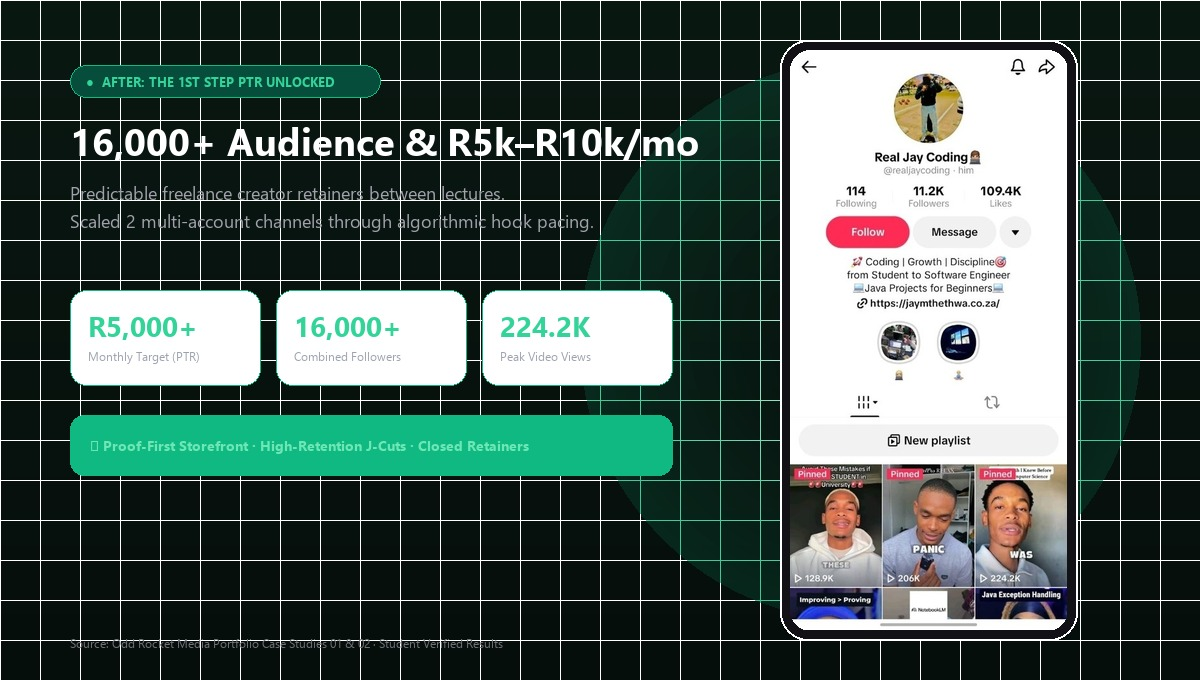
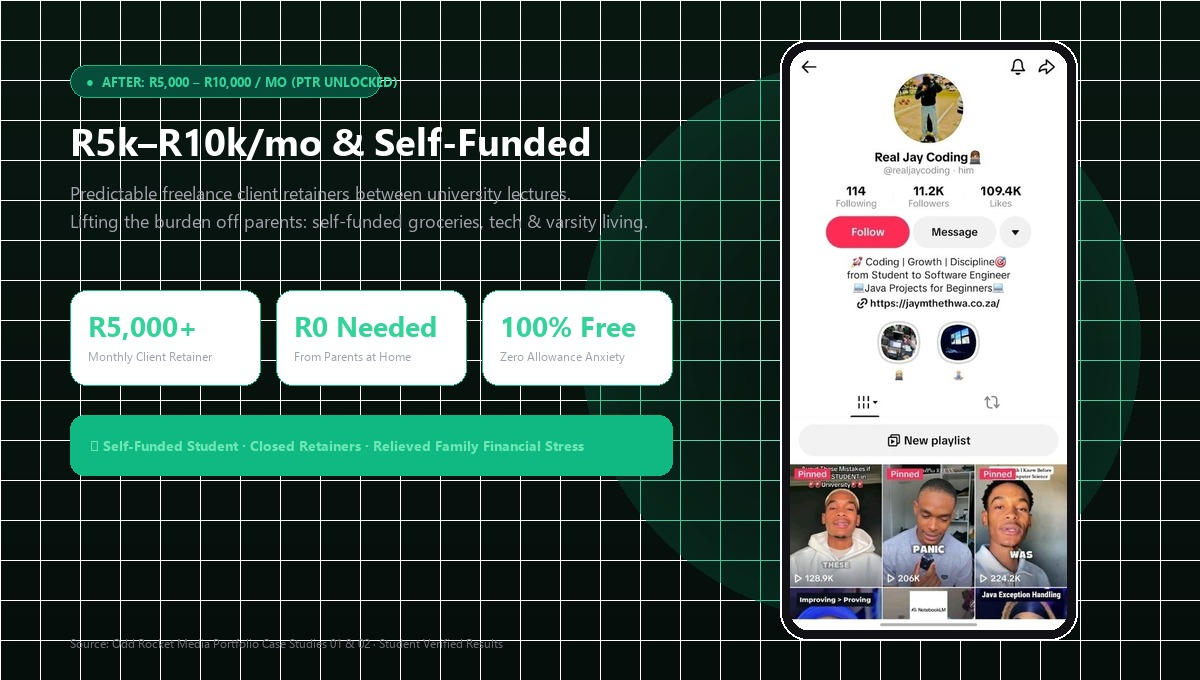
refactor(wins): focus Before/After comparison purely on monetary cashflow, alleviating parent stress, and student independence

diff --git a/index.html b/index.html
@@ -565,23 +565,23 @@
                 REACTBITS PRO COMPARISON SLIDER
               </div>
               <h3 class="comparison-slider-title">The Real Impact: Before vs. After Our PTR</h3>
-              <p class="comparison-slider-subtitle">Slide across to inspect the transformation documented in our portfolio — from late NSFAS allowances and 15-view algorithmic ruts to 16,000+ followers, 224,200+ viral views, and R5,000/month brand retainers.</p>
+              <p class="comparison-slider-subtitle">Slide across to inspect the financial shift documented in our portfolio — from late NSFAS allowances, dreading the 10th of every month, and stressing parents for grocery money, to consistent R5,000–R10,000/month client retainers and full student financial independence.</p>
             </div>
 
             <!-- The ReactBits Interactive Comparison Slider Frame -->
             <div class="reactbits-comparison-slider" id="ptr-compare-slider" style="--slider-pos: 50%;">
               <!-- Bottom Layer: AFTER OUR PTR -->
               <div class="comparison-layer comparison-layer--after">
-                <img src="assets/ptr-after.jpg" alt="After Our PTR: 16,000+ Creators, 224K Views, R5k-R10k/mo" class="comparison-img" loading="lazy" />
+                <img src="assets/ptr-after.jpg" alt="After Our PTR: R5k-R10k/mo Retainers, Self-Funded Student, Zero Parent Burden" class="comparison-img" loading="lazy" />
                 <div class="comparison-tag tag-after">
                   <span class="tag-dot dot-green"></span>
-                  AFTER OUR PTR · R5K+ TARGET
+                  AFTER OUR PTR · R5K–R10K RETAINERS
                 </div>
               </div>
 
               <!-- Top Layer: BEFORE OUR PTR (Clipped) -->
               <div class="comparison-layer comparison-layer--before">
-                <img src="assets/ptr-before.jpg" alt="Before The Method: NSFAS Dependent, 15-250 Views, R0/mo" class="comparison-img" loading="lazy" />
+                <img src="assets/ptr-before.jpg" alt="Before The Method: NSFAS Dependent, R0/mo, Parent Stress" class="comparison-img" loading="lazy" />
                 <div class="comparison-tag tag-before">
                   <span class="tag-dot dot-red"></span>
                   BEFORE OUR PTR · NSFAS DEPENDENT
@@ -604,11 +604,11 @@
 
             <!-- Preset Controls -->
             <div class="comparison-presets-bar">
-              <span class="presets-label">Compare Views:</span>
+              <span class="presets-label">Compare Shift:</span>
               <div class="presets-group" role="group" aria-label="Slider presets">
                 <button type="button" class="preset-btn" data-pos="85">
                   <span class="preset-dot dot-red"></span>
-                  Before PTR (15 Views)
+                  Before PTR (R0 / mo)
                 </button>
                 <button type="button" class="preset-btn active" data-pos="50">
                   <span class="preset-dot dot-neutral"></span>
@@ -616,7 +616,7 @@
                 </button>
                 <button type="button" class="preset-btn" data-pos="15">
                   <span class="preset-dot dot-green"></span>
-                  After PTR (224K Views)
+                  After PTR (R5k–R10k)
                 </button>
               </div>
             </div>
@@ -624,31 +624,31 @@
             <!-- Key Metrics Grid -->
             <div class="comparison-metrics-strip">
               <div class="comp-metric-card">
-                <div class="metric-eyebrow">MONTHLY CASHFLOW</div>
+                <div class="metric-eyebrow">MONTHLY STUDENT CASHFLOW</div>
                 <div class="metric-shift">
                   <span class="shift-before">R0 (NSFAS Dependent)</span>
                   <span class="shift-arrow">→</span>
                   <span class="shift-after">R5,000–R10,000/mo</span>
                 </div>
-                <div class="metric-desc">Predictable monthly retainer target hit within 60–90 days</div>
+                <div class="metric-desc">Predictable monthly client retainer generated between university lectures</div>
               </div>
               <div class="comp-metric-card">
-                <div class="metric-eyebrow">STUDENT AUDIENCE</div>
+                <div class="metric-eyebrow">ALLEVIATING PARENT STRESS</div>
                 <div class="metric-shift">
-                  <span class="shift-before">0 Followers</span>
+                  <span class="shift-before">Phoning Home for Money</span>
                   <span class="shift-arrow">→</span>
-                  <span class="shift-after">16,000+ Creators</span>
+                  <span class="shift-after">Zero Burden on Family</span>
                 </div>
-                <div class="metric-desc">11.2K (@realjaycoding) + 5.1K (@jaywithzaio) combined</div>
+                <div class="metric-desc">Lifting financial pressure off parents by self-paying groceries, data & rent</div>
               </div>
               <div class="comp-metric-card">
-                <div class="metric-eyebrow">VIRAL REACH</div>
+                <div class="metric-eyebrow">CAMPUS TECH & ESSENTIALS</div>
                 <div class="metric-shift">
-                  <span class="shift-before">15–250 Views</span>
+                  <span class="shift-before">Dry Noodles & Late Payouts</span>
                   <span class="shift-arrow">→</span>
-                  <span class="shift-after">224,200+ Viral Views</span>
+                  <span class="shift-after">100% Self-Funded</span>
                 </div>
-                <div class="metric-desc">180,000+ total likes using our validated UGC script hooks</div>
+                <div class="metric-desc">Buying own laptops, tech gear, and healthy food without bursary anxiety</div>
               </div>
             </div>
           </div>
